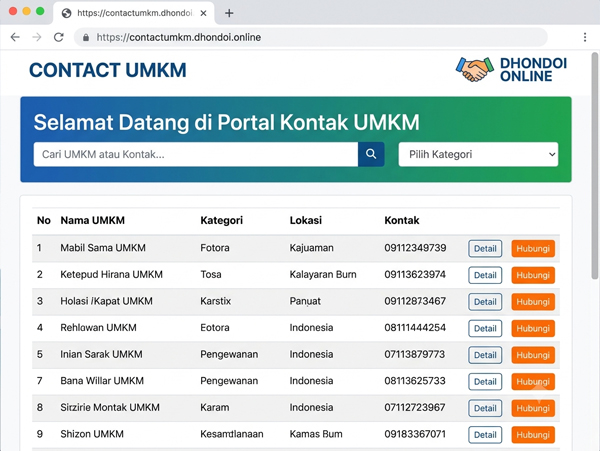
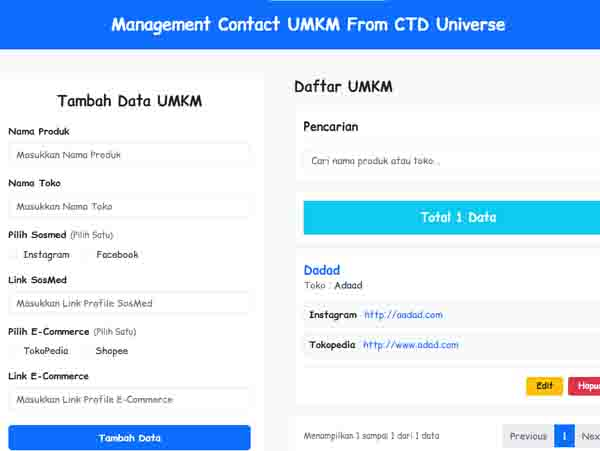
new web

diff --git a/assets/js/index.js b/assets/js/index.js
@@ -11,10 +11,20 @@ import { renderingProjects } from "./projects.js";
         document.getElementById(id).innerHTML = data;
       });
   };
+  const disableScroll = (e) => {
+    e.preventDefault();
+  };
 
   // Memuat semua seksi saat halaman dimuat
   document.addEventListener("DOMContentLoaded", async () => {
     await loadSection("loading-modal", "loading-modal.html");
+
+    // Aktifkan pemblokiran
+    document.getElementById("loading-modal").classList.add("loaded");
+    // Mencegah gerakan scroll
+    window.addEventListener("wheel", disableScroll, { passive: false });
+    window.addEventListener("touchmove", disableScroll, { passive: false });
+
     await loadSection("navbar", "navbar.html");
     await loadSection("hero", "hero.html");
     await loadSection("about", "about.html");
@@ -32,10 +42,11 @@ import { renderingProjects } from "./projects.js";
       "./assets/jsons/particle.json",
       function () {
         console.log("callback - particles.js config loaded");
-        document.getElementById("loading-modal").classList.add("loaded");
         setTimeout(function () {
           document.getElementById("loading-modal").remove();
-        }, 500);
+          window.removeEventListener("wheel", disableScroll);
+          window.removeEventListener("touchmove", disableScroll);
+        }, 10000);
       },
     );
   });

diff --git a/index.html b/index.html
@@ -59,11 +59,11 @@
 https://cdn.jsdelivr.net/npm/particles.js@2.0.0/particles.min.js
 "
     ></script>
-    <script defer type="module" src="assets/js/index.js"></script>
     <script
-      defer
-      src="https://cdn.jsdelivr.net/npm/bootstrap@5.3.0/dist/js/bootstrap.bundle.min.js"
+    defer
+    src="https://cdn.jsdelivr.net/npm/bootstrap@5.3.0/dist/js/bootstrap.bundle.min.js"
     ></script>
+    <script defer type="module" src="assets/js/index.js"></script>
   </head>
 
   <body>

diff --git a/sections/about.html b/sections/about.html
@@ -1,7 +1,7 @@
 <div class="container">
   <h2 class="text-center mb-4">Tentang Saya</h2>
-  <div class="row align-items-center">
-    <div class="col-md-6 mb-sm-5 mb-md-0">
+  <div class="row align-items-center justify-content-evenly">
+    <div class="col-6 col-md-3 mb-sm-5 mb-md-0">
       <img
         src="assets/images/main/profile-picture.jpg"
         class="img-fluid rounded"
